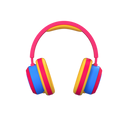
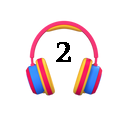
edit headphone img

Changed region(s): [[0.4375, 0.3125, 0.5625, 0.5]]

diff --git a/src/db/music.js b/src/db/music.js
@@ -77,7 +77,7 @@ let musicDB = [
   {
       id: 5,
       name: "習1 P.6",
-      img: "headphone.png",
+      img: "headphone1.png",
       lang: "習作本1",
       timesPlayed: 0,
       type: "1",
@@ -92,7 +92,7 @@ let musicDB = [
   {
       id: 6,
       name: "習2 P.1",
-      img: "headphone.png",
+      img: "headphone2.png",
       lang: "習作本2",
       timesPlayed: 0,
       type:"2",
@@ -107,7 +107,7 @@ let musicDB = [
   {
       id: 7,
       name: "習2 P.2",
-      img: "headphone.png",
+      img: "headphone2.png",
       lang: "習作本2",
       timesPlayed: 0,
       type:"2",
@@ -122,7 +122,7 @@ let musicDB = [
   {
       id: 8,
       name: "習2 P.3",
-      img: "headphone.png",
+      img: "headphone2.png",
       lang: "習作本2",
       timesPlayed: 0,
       type: "2",
@@ -137,7 +137,7 @@ let musicDB = [
   {
     id: 9,
     name: "習2 P.4",
-    img: "headphone.png",
+    img: "headphone2.png",
     lang: "習作本2",
     timesPlayed: 0,
     type: "2",
@@ -152,7 +152,7 @@ let musicDB = [
   {
     id: 10,
     name: "習2 P.5",
-    img: "headphone.png",
+    img: "headphone2.png",
     lang: "習作本2",
     timesPlayed: 0,
     type: "2",
@@ -167,7 +167,7 @@ let musicDB = [
 {
     id: 11,
     name: "習3 P.1",
-    img: "headphone.png",
+    img: "headphone3.png",
     lang: "習作本3",
     timesPlayed: 0,
     type:"3",
@@ -182,7 +182,7 @@ let musicDB = [
 {
     id: 12,
     name: "習3 P.2",
-    img: "headphone.png",
+    img: "headphone3.png",
     lang: "習作本3",
     type: "3",
     timesPlayed: 0,
@@ -197,7 +197,7 @@ let musicDB = [
 {
     id: 13,
     name: "習3 P.3",
-    img: "headphone.png",
+    img: "headphone3.png",
     lang: "習作本3",
     timesPlayed: 0,
     type: "3",
@@ -212,7 +212,7 @@ let musicDB = [
 {
     id: 14,
     name: "習3 P.4",
-    img: "headphone.png",
+    img: "headphone3.png",
     lang: "習作本3",
     timesPlayed: 0,
     type: "3",
@@ -227,7 +227,7 @@ let musicDB = [
 {
     id: 15,
     name: "習3 P.5",
-    img: "headphone.png",
+    img: "headphone3.png",
     lang: "習作本3",
     timesPlayed: 0,
     type: "3",
@@ -242,7 +242,7 @@ let musicDB = [
 {
     id: 16,
     name: "習4 P.1",
-    img: "headphone.png",
+    img: "headphone4.png",
     lang: "習作本4",
     timesPlayed: 0,
     type:"4",
@@ -257,7 +257,7 @@ let musicDB = [
 {
     id: 17,
     name: "習4 P.2",
-    img: "headphone.png",
+    img: "headphone4.png",
     lang: "習作本4",
     timesPlayed: 0,
     type:"4",
@@ -272,7 +272,7 @@ let musicDB = [
 {
     id: 18,
     name: "習4 P.3",
-    img: "headphone.png",
+    img: "headphone4.png",
     lang: "習作本4",
     timesPlayed: 0,
     type: "4",
@@ -287,10 +287,10 @@ let musicDB = [
 {
   id: 19,
   name: "習4 P.4",
-  img: "headphone.png",
+  img: "headphone4.png",
   lang: "習作本4",
   timesPlayed: 0,
-  type: "5",
+  type: "4",
   musicName: "Heuse & Tom Wilson - Ignite [NCS Release].mp3",
   attribution: {
       song: "Heuse & Tom Wilson - Ignite [NCS Release]",
@@ -302,7 +302,7 @@ let musicDB = [
 {
     id: 20,
     name: "習4 P.5",
-    img: "headphone.png",
+    img: "headphone4.png",
     lang: "習作本4",
     timesPlayed: 0,
     type: "4",
@@ -317,7 +317,7 @@ let musicDB = [
 {
     id: 21,
     name: "習5 P.1",
-    img: "headphone.png",
+    img: "headphone5.png",
     lang: "習作本5",
     timesPlayed: 0,
     type:"5",
@@ -332,7 +332,7 @@ let musicDB = [
 {
     id: 22,
     name: "習5 P.2",
-    img: "headphone.png",
+    img: "headphone5.png",
     lang: "習作本5",
     timesPlayed: 0,
     type:"5",
@@ -347,7 +347,7 @@ let musicDB = [
 {
     id: 23,
     name: "習5 P.3",
-    img: "headphone.png",
+    img: "headphone5.png",
     lang: "習作本5",
     timesPlayed: 0,
     type: "5",
@@ -362,7 +362,7 @@ let musicDB = [
 {
   id: 24,
   name: "習5 P.4",
-  img: "headphone.png",
+  img: "headphone5.png",
   lang: "習作本5",
   timesPlayed: 0,
   type: "5",
@@ -377,7 +377,7 @@ let musicDB = [
 {
   id: 25,
   name: "習5 P.555",
-  img: "headphone.png",
+  img: "headphone5.png",
   lang: "習作本5",
   timesPlayed: 0,
   type: "5",
